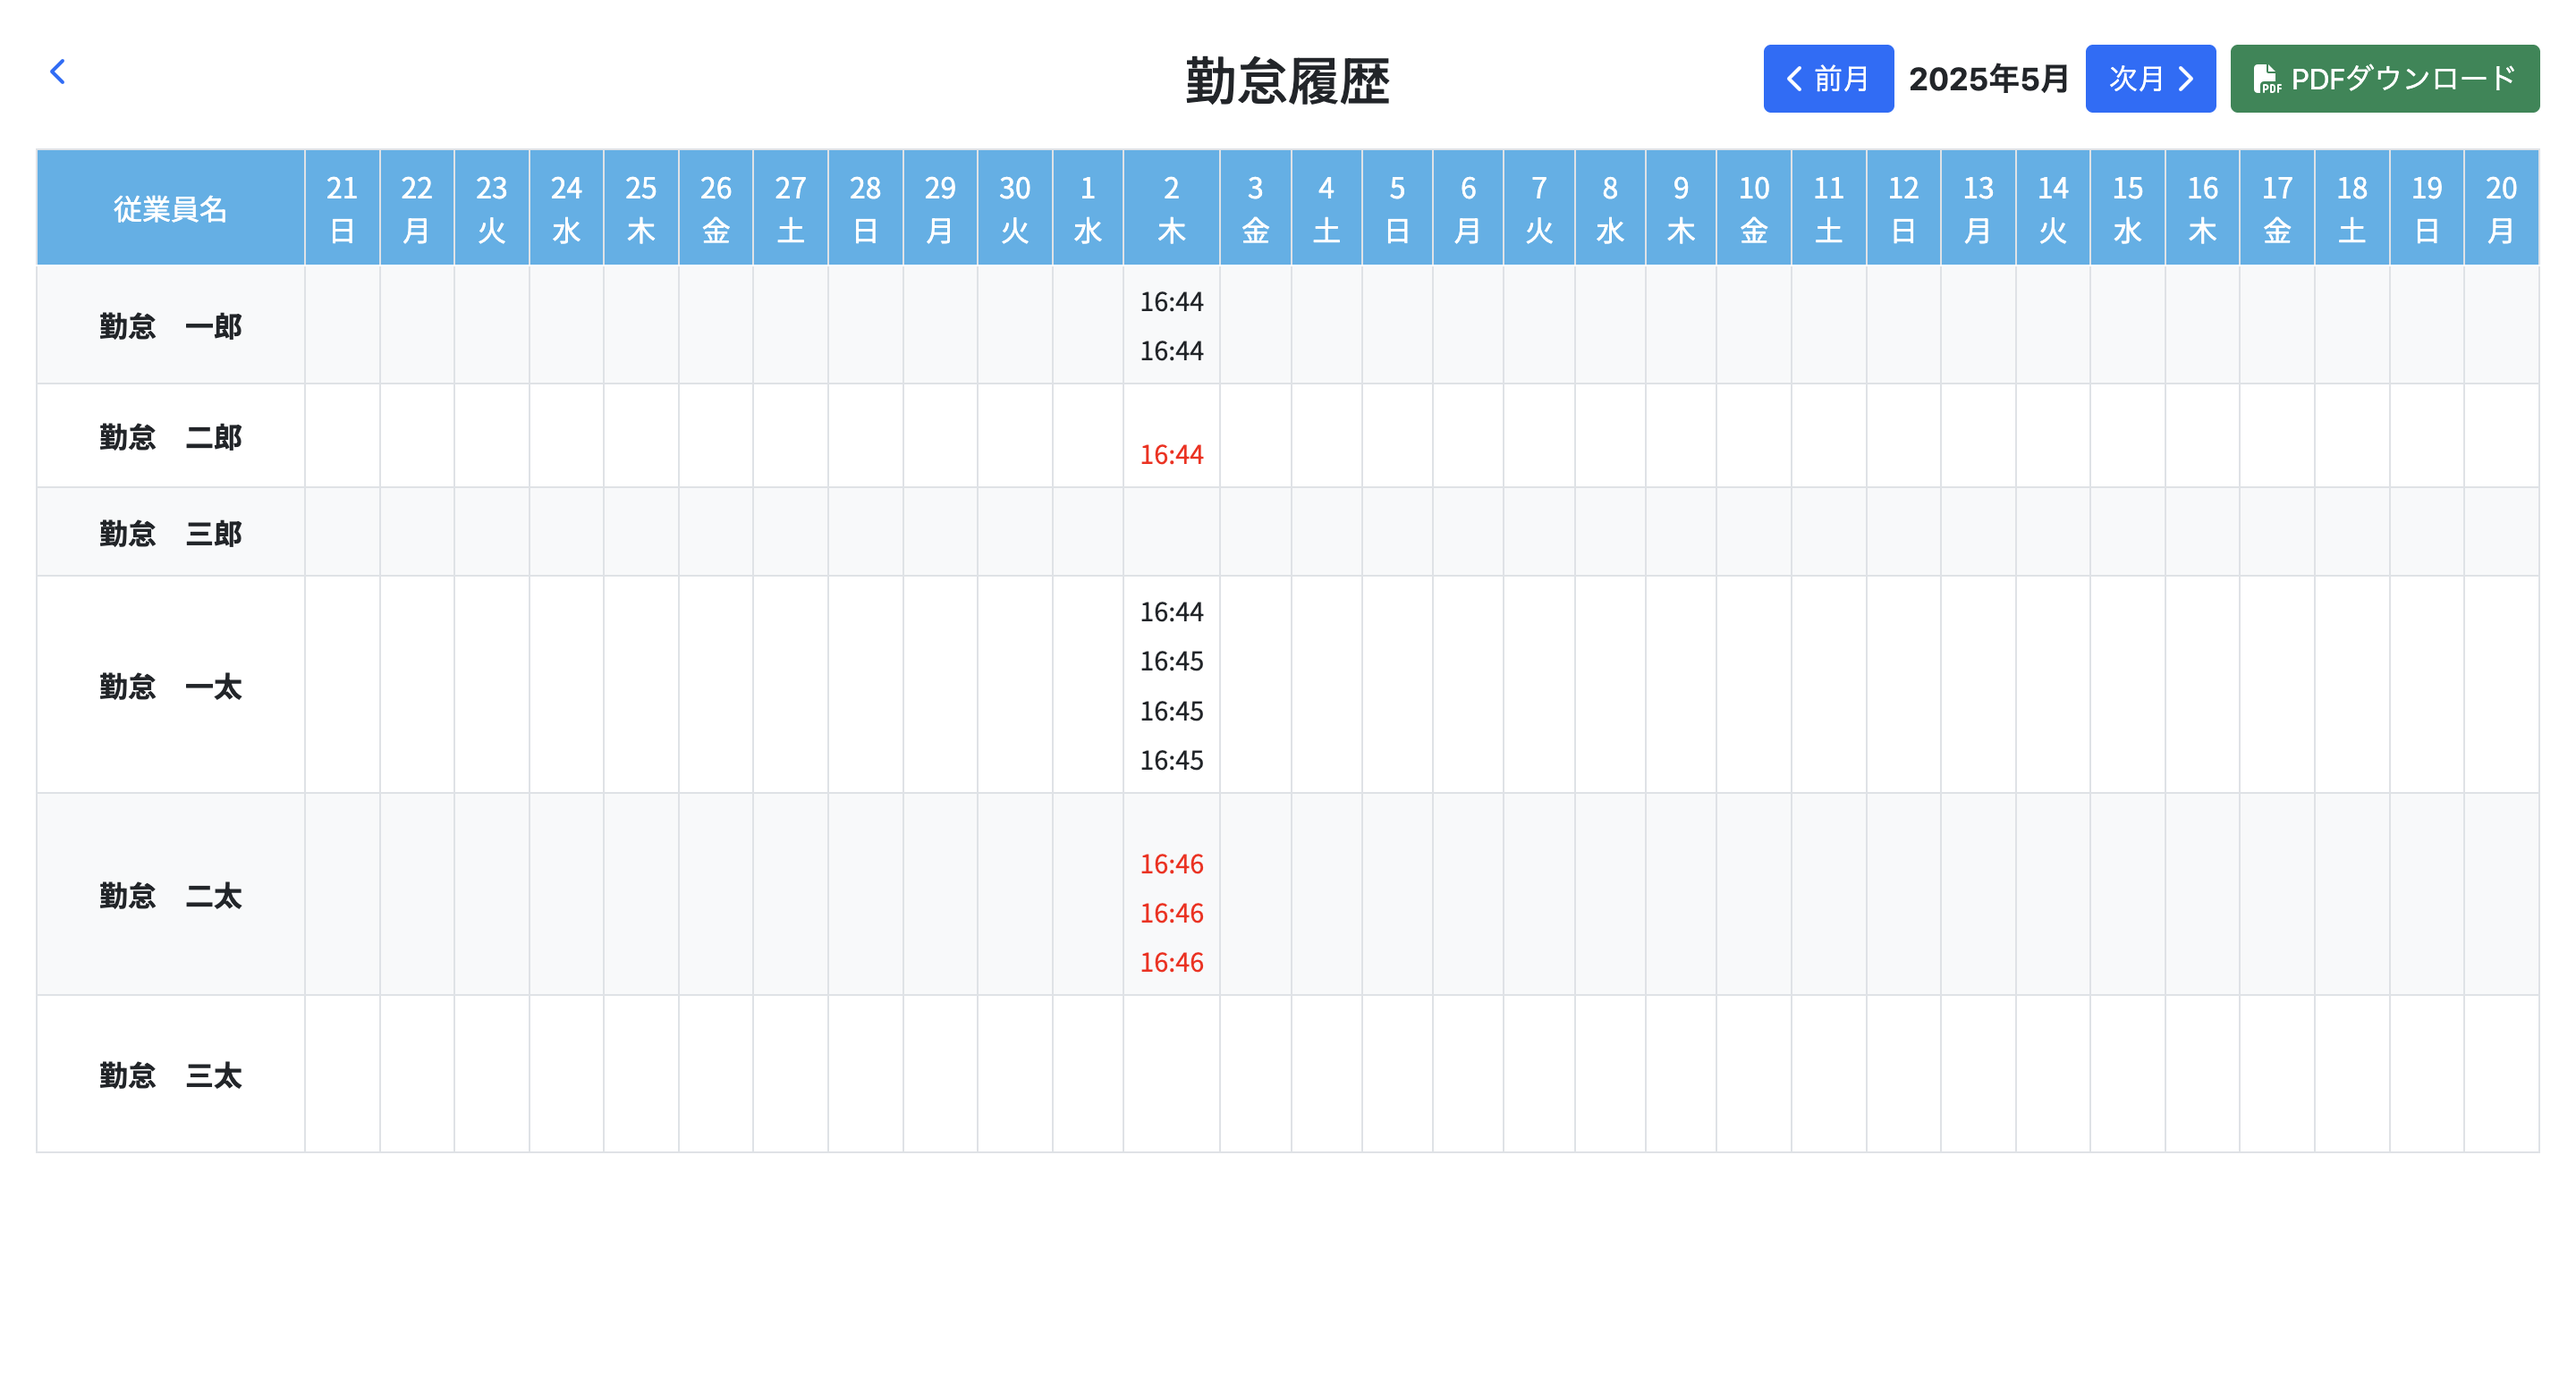
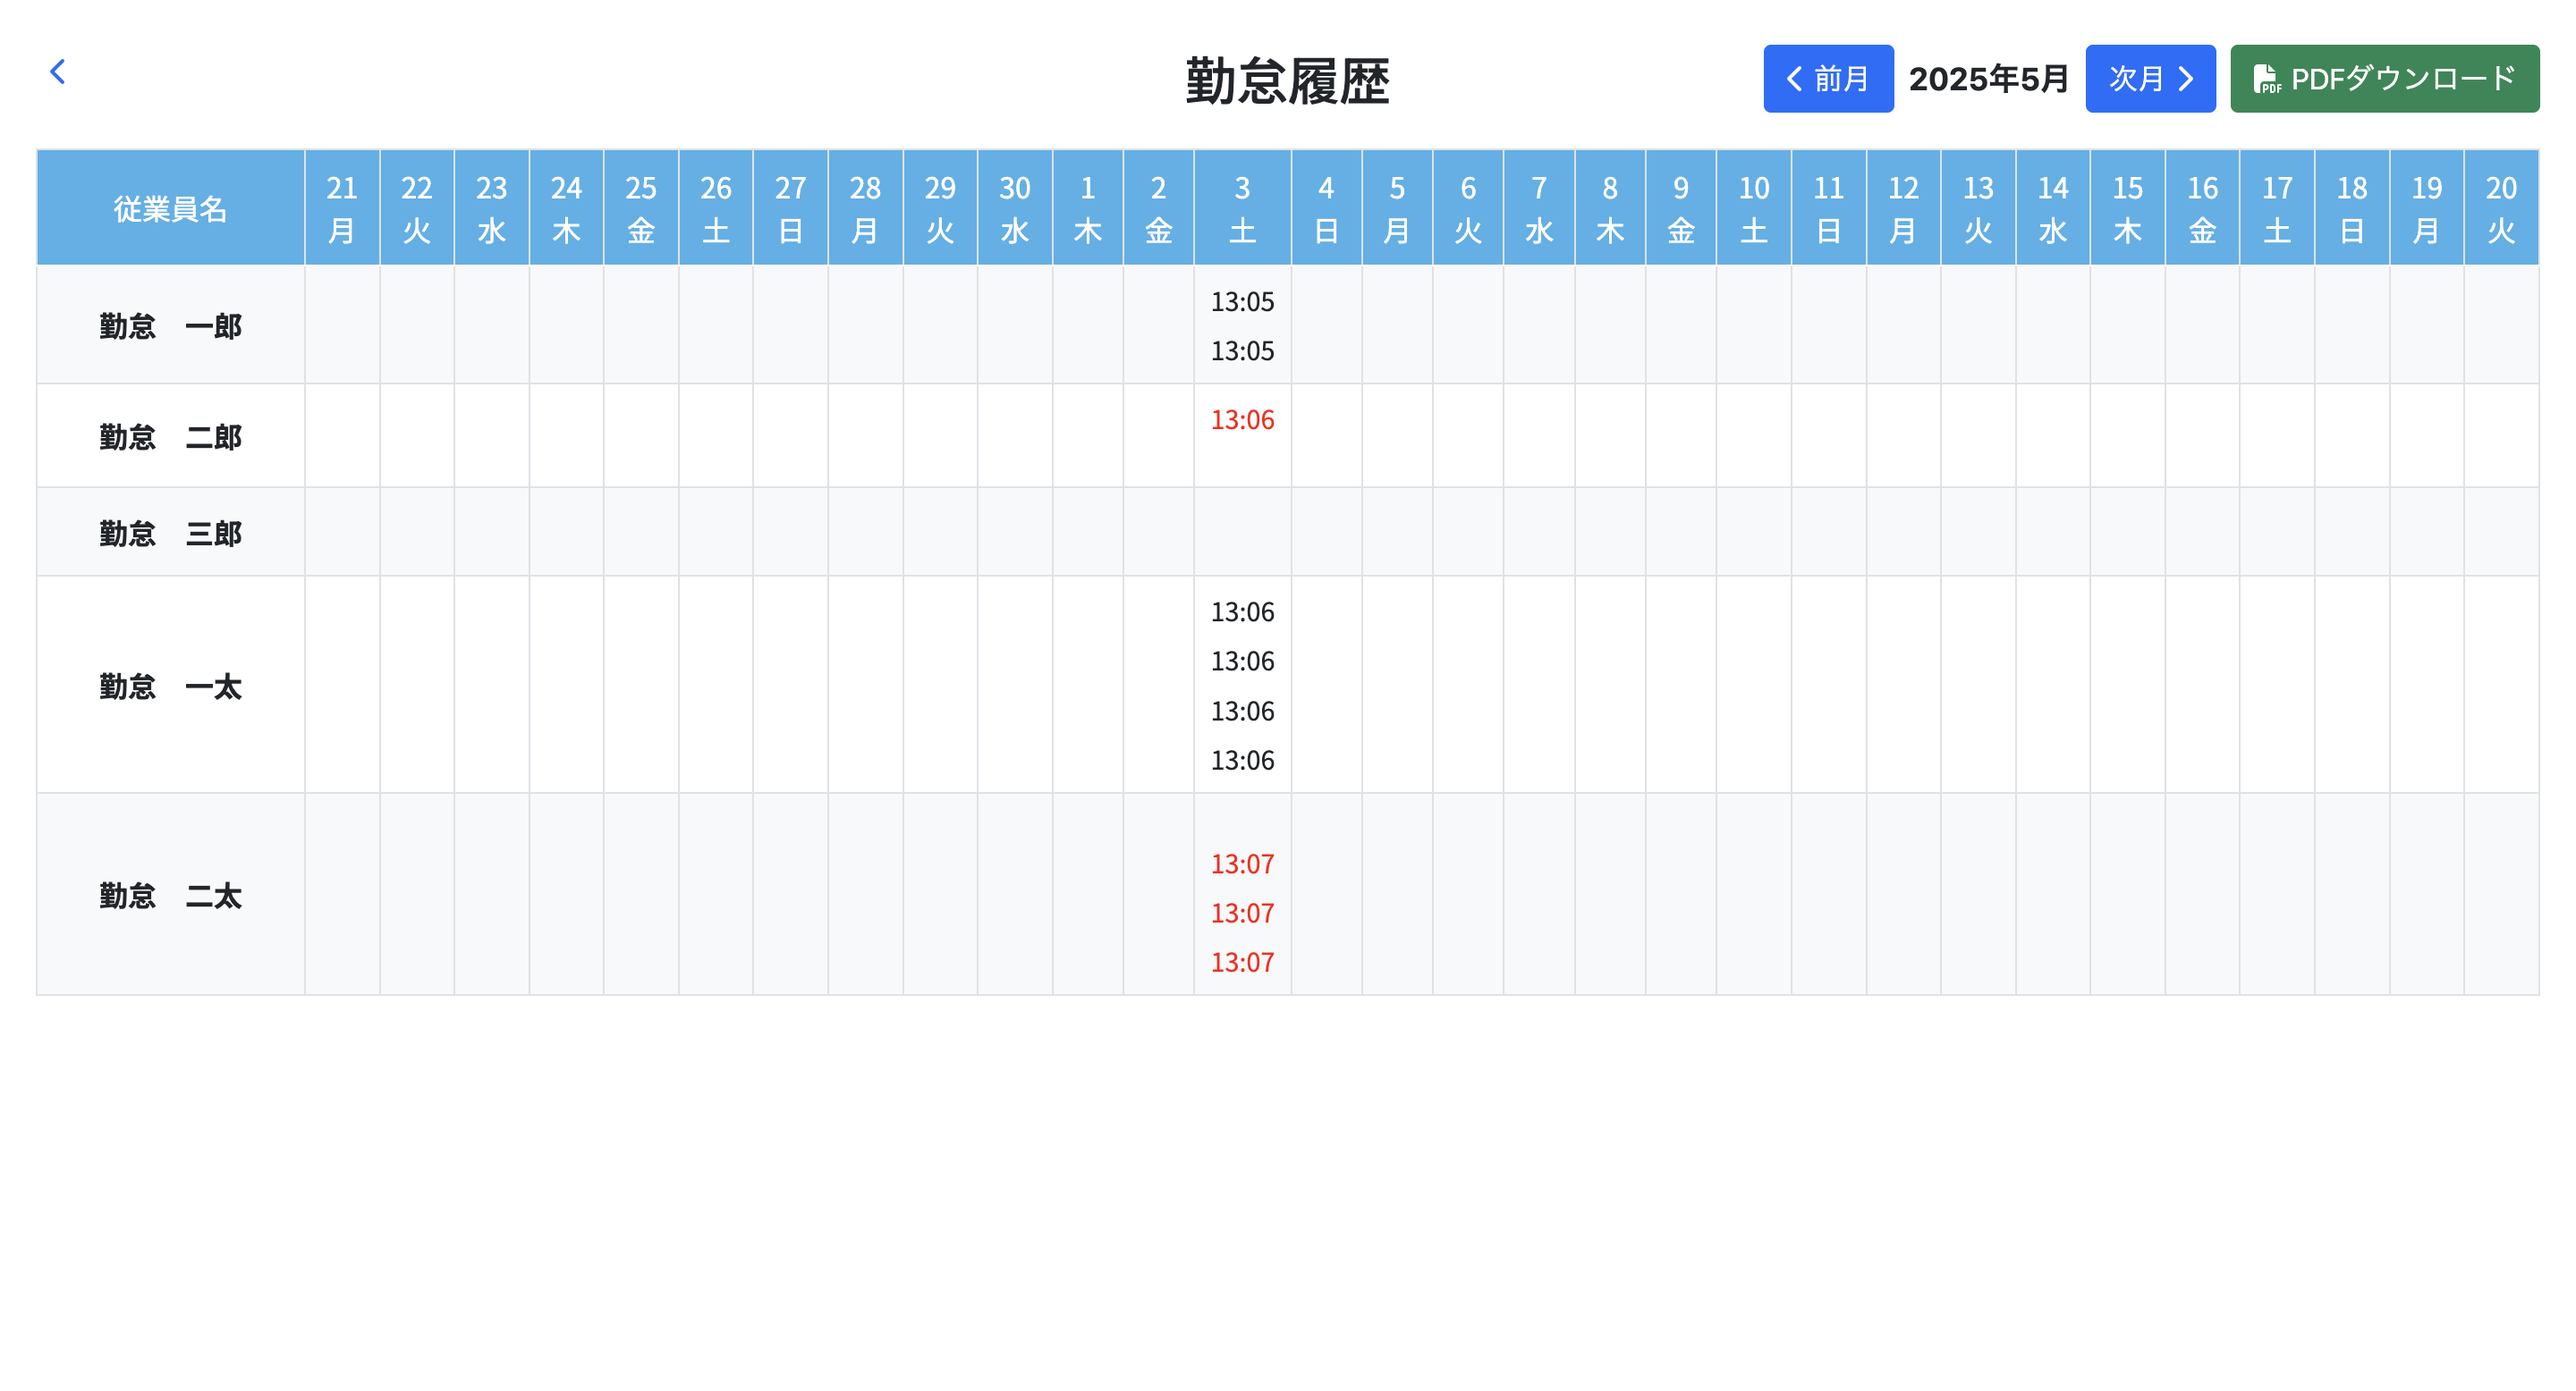
dayof week, images, red figure

diff --git a/DentalAttendance/testapp/templates/testapp/report.html b/DentalAttendance/testapp/templates/testapp/report.html
@@ -39,6 +39,7 @@
                         <th>年</th>
                         <th>月</th>
                         <th>日</th>
+                        <th>曜日</th>
                         <th>出勤時間</th>
                         <th>退勤時間</th>
                     </tr>
@@ -49,7 +50,7 @@
                     {% for record in report_data %}
                     {% if record.employee_id != current_employee.id and current_employee.id != '' %}
                     <tr>
-                        <td colspan="7"></td>
+                        <td colspan="8"></td>
                     </tr>
                     {% endif %}
                     <tr>
@@ -58,6 +59,7 @@
                         <td>{{ record.year }}</td>
                         <td>{{ record.month }}</td>
                         <td>{{ record.day }}</td>
+                        <td>{{ record.day_of_week }}</td>
                         <td>{{ record.arrive }}</td>
                         <td>{{ record.leave }}</td>
                     </tr>

diff --git a/DentalAttendance/testapp/static/javascript/attendance_history.js b/DentalAttendance/testapp/static/javascript/attendance_history.js
@@ -19,7 +19,7 @@ document.addEventListener('DOMContentLoaded', function() {
         while (current <= endDate) {
             dates.push({
                 date: current.getDate(),
-                day: ['日', '月', '火', '水', '木', '金', '土'][current.getDay()]
+                day: ['月', '火', '水', '木', '金', '土', '日'][current.getDay()]
             });
             current.setDate(current.getDate() + 1);
         }

diff --git a/DentalAttendance/testapp/main.py b/DentalAttendance/testapp/main.py
@@ -203,7 +203,7 @@ def attendance_history(year=None, month=None):
     while current_date <= end_date:
         dates.append({
             'date': current_date.day,
-            'day': ['日', '月', '火', '水', '木', '金', '土'][current_date.weekday()]
+            'day': ['月', '火', '水', '木', '金', '土', '日'][current_date.weekday()]
         })
         current_date += timedelta(days=1)
     
@@ -448,6 +448,30 @@ def download_pdf(year, month):
         ('ROWBACKGROUNDS', (0, 1), (-1, -1), [colors.white, colors.lightgrey])
     ]))
 
+    # 出勤または退勤の記録がないセルを赤字に設定
+    for i, employee in enumerate(employees, 1):
+        current_date = start_date
+        col = 1  # 列インデックス（0から始まる）
+        while current_date <= end_date:
+            date_str = current_date.strftime('%Y-%m-%d')
+            records = AttendanceRecord.query.filter_by(
+                user_id=employee.id,
+                date=date_str
+            ).order_by(AttendanceRecord.time).all()
+            
+            if records:
+                arrive = next((r.time.strftime('%-H:%M') for r in records if r.action_type == '出勤'), '')
+                leave = next((r.time.strftime('%-H:%M') for r in records if r.action_type == '退勤'), '')
+                
+                # 出勤または退勤の記録がない場合、そのセルを赤字に設定
+                if (arrive and not leave) or (not arrive and leave):
+                    table.setStyle(TableStyle([
+                        ('TEXTCOLOR', (col, i), (col, i), colors.red)
+                    ]))
+            
+            col += 1
+            current_date += timedelta(days=1)
+
     elements.append(table)
     
     # PDFの生成
@@ -519,6 +543,7 @@ def report(year=None, month=None):
                 'year': current_date.year,
                 'month': current_date.month,
                 'day': current_date.day,
+                'day_of_week': ['月', '火', '水', '木', '金', '土', '日'][current_date.weekday()],
                 'arrive': arrive,
                 'leave': leave
             })
@@ -822,7 +847,7 @@ def download_csv(year, month):
     )
     
     # ヘッダー行
-    headers = ['従業員番号', '従業員名', '年', '月', '日', '出勤時間', '退勤時間']
+    headers = ['従業員番号', '従業員名', '年', '月', '日', '曜日', '出勤時間', '退勤時間']
     for col, header in enumerate(headers, 1):
         cell = ws.cell(row=1, column=col, value=header)
         cell.font = header_font
@@ -858,11 +883,12 @@ def download_csv(year, month):
             ws.cell(row=row_num, column=3, value=current_date.year)
             ws.cell(row=row_num, column=4, value=current_date.month)
             ws.cell(row=row_num, column=5, value=current_date.day)
-            ws.cell(row=row_num, column=6, value=arrive)
-            ws.cell(row=row_num, column=7, value=leave)
+            ws.cell(row=row_num, column=6, value=['月', '火', '水', '木', '金', '土', '日'][current_date.weekday()])
+            ws.cell(row=row_num, column=7, value=arrive)
+            ws.cell(row=row_num, column=8, value=leave)
             
             # セルのスタイル設定
-            for col in range(1, 8):
+            for col in range(1, 9):
                 cell = ws.cell(row=row_num, column=col)
                 cell.alignment = center_alignment
                 cell.border = thin_border
@@ -879,8 +905,9 @@ def download_csv(year, month):
     ws.column_dimensions['C'].width = 10  # 年度
     ws.column_dimensions['D'].width = 10  # 月
     ws.column_dimensions['E'].width = 10  # 日
-    ws.column_dimensions['F'].width = 15  # 出勤時間
-    ws.column_dimensions['G'].width = 15  # 退勤時間
+    ws.column_dimensions['F'].width = 10  # 曜日
+    ws.column_dimensions['G'].width = 15  # 出勤時間
+    ws.column_dimensions['H'].width = 15  # 退勤時間
     
     # Excelファイルをレスポンスとして返す
     output = BytesIO()
